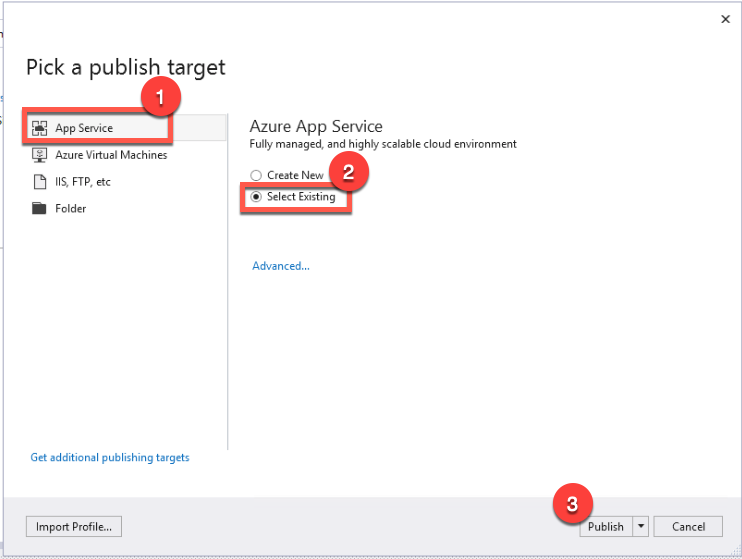
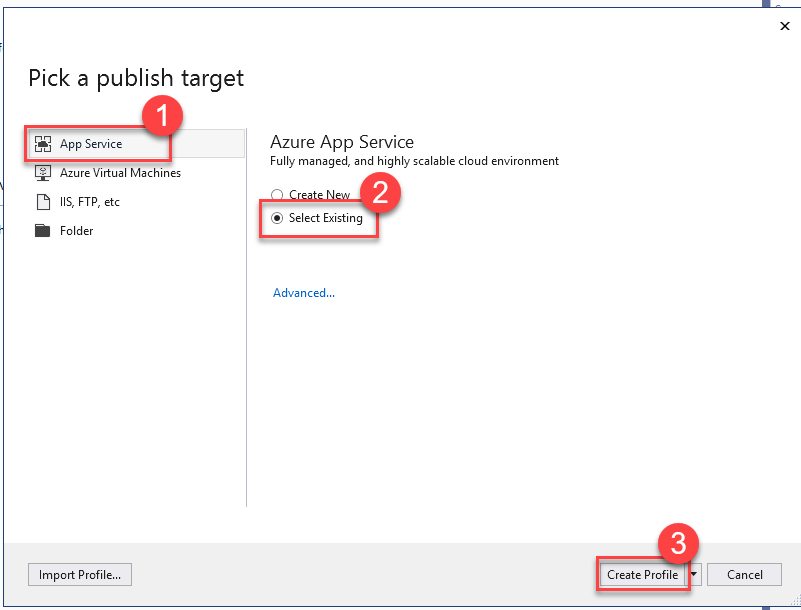
more updates

diff --git a/Hands-on lab/HOL step-by step - Business continuity and disaster recovery.md b/Hands-on lab/HOL step-by step - Business continuity and disaster recovery.md
@@ -1533,9 +1533,9 @@ In this task you will deploy the website to App Services using Visual Studio, mi
 
     ![Visual Studio 2019 from the start menu displays.](images/Hands-onlabstep-bystep-Businesscontinuityanddisasterrecoveryimages/media/image294.png "Visual Studio 2019")
 
-38. Select **File**, **Open**, and **Project/Solution**.
+38. Select **Open a project or solution**.
 
-    ![In Visual Studio, File / Open / Project/Solution is selected.](images/Hands-onlabstep-bystep-Businesscontinuityanddisasterrecoveryimages/media/image295.png "Visual Studio")
+    ![In Visual Studio, Open a project or solution is selected.](images/Hands-onlabstep-bystep-Businesscontinuityanddisasterrecoveryimages/media/image295.png "Visual Studio")
 
 39. Open the Solution located at `C:\HOL\WebApp\ContosoInsurance.sln`.
 
@@ -1553,7 +1553,7 @@ In this task you will deploy the website to App Services using Visual Studio, mi
 
     ![In Solution Explorer, the right-click menu for ContosoInsurance displays, and Publish is selected.](images/Hands-onlabstep-bystep-Businesscontinuityanddisasterrecoveryimages/media/image298.png "Solution Explorer")
 
-42. On the **Publish** screen select **App Service** and then **Select Existing** and finally **Publish**.
+42. On the **Publish** screen select **App Service** and then **Select Existing** and finally **Create Profile**.
 
     ![On the Publish screen, App Service is selected. The radio button for Select Existing is selected as well.](images/Hands-onlabstep-bystep-Businesscontinuityanddisasterrecoveryimages/media/image299.png "Publish screen")
 
@@ -1561,31 +1561,37 @@ In this task you will deploy the website to App Services using Visual Studio, mi
 
     ![On the App Service screen, the web app under BCDRPaaSPrimarySite is selected.](images/Hands-onlabstep-bystep-Businesscontinuityanddisasterrecoveryimages/media/image300.png "App Service screen")
 
-44. Visual Studio will build the app and then publish to your Web App. The browser should open to the application.
+44. Select **Publish** to publish the *ContosoInsurance* application to Azure.
+    ![On the Publish tab, the Publish button is highlighted.](images/Hands-onlabstep-bystep-Businesscontinuityanddisasterrecoveryimages/media/image300-b.png "Publish tab")
+
+45. Once the publish has succeeded, open the Azure Web App in a browser to see that it's running successfully.
 
     ![The Contoso Insurance PolicyConnect webpage displays.](images/Hands-onlabstep-bystep-Businesscontinuityanddisasterrecoveryimages/media/image301.png "Contoso Insurance PolicyConnect webpage ")
 
-45. Select the **Current Policy Offerings** button, and the page should load with data showing. This means that you have successfully implemented the Web App and it has connected to the Failover Group database.
+46. Select the **Current Policy Offerings** button, and the page should load with data showing. This means that you have successfully implemented the Web App and it has connected to the Failover Group database.
 
     ![The Index webpage displays the insurance options.](images/Hands-onlabstep-bystep-Businesscontinuityanddisasterrecoveryimages/media/image302.png "Index webpage")
 
-46. Right-click the **ContosoInsurance** Application and select **Publish**.
+47. Right-click the **ContosoInsurance** Application and select **Publish**.
 
     ![In Solution Explorer, the right-click menu for ContosoInsurance displays, and Publish is selected.](images/Hands-onlabstep-bystep-Businesscontinuityanddisasterrecoveryimages/media/image298.png "Solution Explorer")
 
-47. On the publish screen select **Create new profile**.
+48. On the publish screen select **Create new profile**.
 
-  ![On the Publish screen, New Profile is Selected.](images/Hands-onlabstep-bystep-Businesscontinuityanddisasterrecoveryimages/media/image299.0.png "Publish screen New Profile")
+  ![On the Publish screen, New is Selected.](images/Hands-onlabstep-bystep-Businesscontinuityanddisasterrecoveryimages/media/image299.0.png "Publish screen New")
 
-48. On the **Publish** screen, select **Microsoft Azure App Service** and then **Select Existing** and finally **Publish**.
+49. On the **Publish** screen, select **Microsoft Azure App Service** and then **Select Existing** and finally **Create Profile**.
 
     ![On the Publish screen, Microsoft Azure App Service is selected. The radio button for Select Existing is selected as well.](images/Hands-onlabstep-bystep-Businesscontinuityanddisasterrecoveryimages/media/image299.png "Publish screen")
 
-49. This time, choose the Web App from the **Secondary** Site running in the **BCDRPaaSSecondarySite**. Select **OK**.
+50. This time, choose the Web App from the **Secondary** Site running in the **BCDRPaaSSecondarySite**. Select **OK**.
 
     ![On the App Service screen, the web app under BCDRPaaSSecondarySite is selected.](images/Hands-onlabstep-bystep-Businesscontinuityanddisasterrecoveryimages/media/image305.png "App Service screen")
 
-50. Visual Studio will build the app and then publish to your Web App. The browser should open to the application.
+44. Select **Publish** to publish the *ContosoInsurance* application to Azure.
+    ![On the Publish tab, the Publish button is highlighted.](images/Hands-onlabstep-bystep-Businesscontinuityanddisasterrecoveryimages/media/image305-b.png "Publish tab")
+
+50. Once the publish has succeeded, open the Azure Web App in a browser to see that it's running successfully.
 
     ![The Contoso Insurance PolicyConnect webpage displays.](images/Hands-onlabstep-bystep-Businesscontinuityanddisasterrecoveryimages/media/image306.png "Contoso Insurance PolicyConnect webpage")
 
@@ -1651,11 +1657,11 @@ In this task you will deploy the website to App Services using Visual Studio, mi
 
     ![The Configuration tab is shown with the Add routing rules button highlighted.](images/Hands-onlabstep-bystep-Businesscontinuityanddisasterrecoveryimages/media/image308-h.png "The Configuration tab is shown with the Add routing rules button highlighted.")
 
-62. On the **Add a rule** pane, enter the following values, then select **Add**:
+64. On the **Add a rule** pane, enter the following values, then select **Add**:
 
     - **Name**: BCDRPaaS
-
     - **Backend pool**: BCDRPaaS
+    - **Forwarding protocol**: Match request
 
     ![Add a rule pane.](images/Hands-onlabstep-bystep-Businesscontinuityanddisasterrecoveryimages/media/image308-i.png "Add a rule pane")
 
